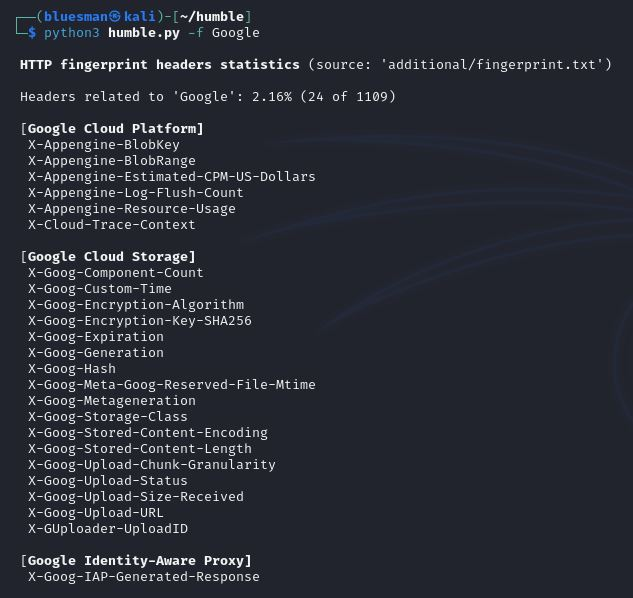
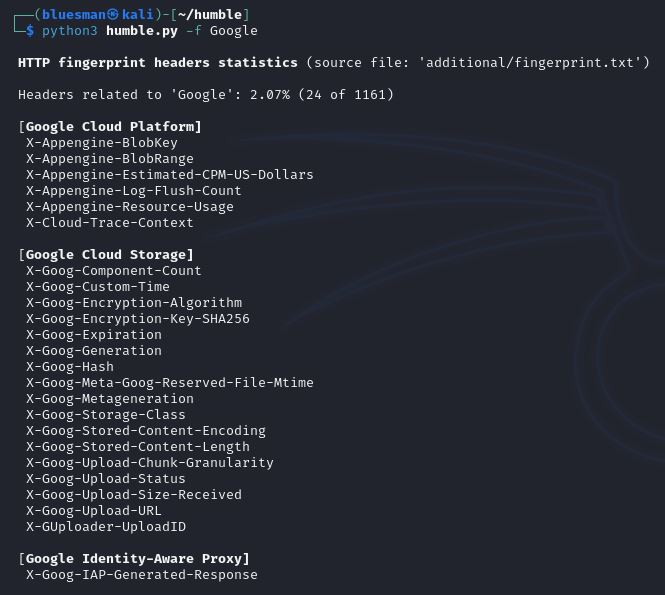
Feature: 13 new fingerprint headers

Changed region(s): [[0.03, 0.1513, 0.6303, 0.9983], [0.03, 0.0908, 0.9905, 0.121], [0.0, 0.0, 0.4202, 0.0605]]

diff --git a/README.md b/README.md
@@ -49,7 +49,7 @@ A humble and <strong>fast</strong> HTTP Response Header <strong>Security</strong
 ## Features
 
 :heavy_check_mark: 14 [checks](#checks-missing-headers) of missing HTTP response headers.<br />
-:heavy_check_mark: 1148 [checks](#checks-fingerprint-headers) of fingerprinting through HTTP response headers.<br />
+:heavy_check_mark: 1161 [checks](#checks-fingerprint-headers) of fingerprinting through HTTP response headers.<br />
 :heavy_check_mark: 111 [checks](#checks-deprecated-headersprotocols-and-insecure-values) of deprecated HTTP response headers/protocols or with insecure/wrong values.<br />
 :heavy_check_mark: SSL/TLS checks (requires the **amazing** https://testssl.sh/).<br />
 :heavy_check_mark: Browser support references for enabled HTTP security headers.<br />
